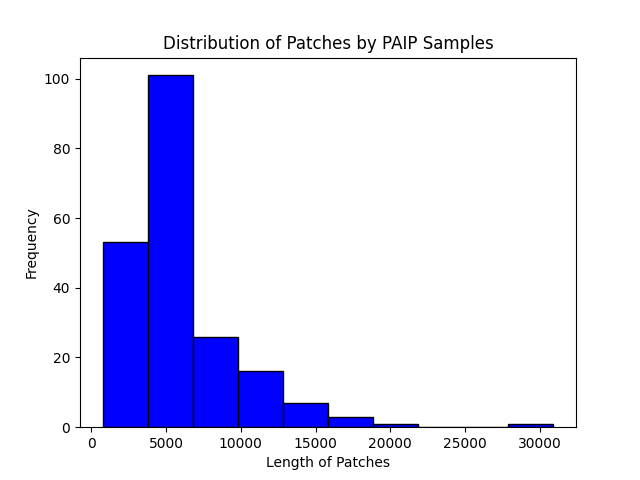
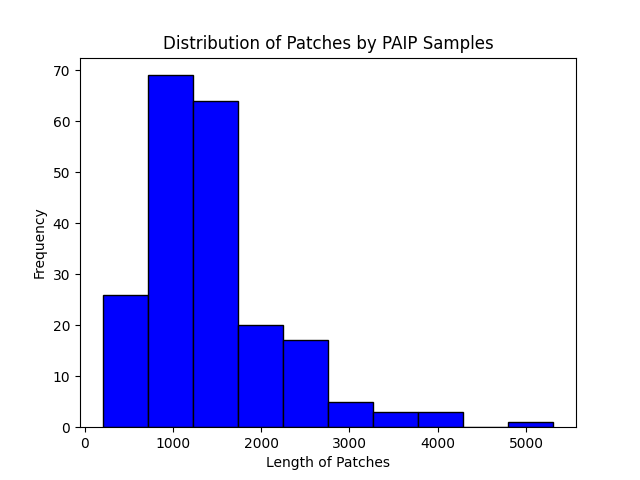
test unetr ddp.

diff --git a/unet_mn.py b/unet_mn.py
@@ -1,0 +1,283 @@
+import os
+import sys
+sys.path.append("./")
+import argparse
+import torch
+import torch.nn as nn
+import torch.optim as optim
+from torch.utils.data import random_split
+import torch.multiprocessing as mp
+import torch.nn.functional as F
+import numpy as np
+import matplotlib.pyplot as plt
+import torch.distributed as dist
+
+from model.unet import Unet
+from dataloader.paip_dataset import PAIPDataset
+
+# Define the Dice Loss
+class DiceLoss(nn.Module):
+    def __init__(self, smooth=1):
+        super(DiceLoss, self).__init__()
+        self.smooth = smooth
+
+    def forward(self, predicted, target):
+        predicted = torch.sigmoid(predicted)
+        intersection = torch.sum(predicted * target)
+        union = torch.sum(predicted) + torch.sum(target) + self.smooth
+        dice_coefficient = (2 * intersection + self.smooth) / union
+        loss = 1.0 - dice_coefficient  # Adjusted to ensure non-negative loss
+        return loss
+    
+class DiceBCELoss(nn.Module):
+    def __init__(self, weight=0.5, size_average=True):
+        super(DiceBCELoss, self).__init__()
+        self.weight = weight
+
+    def forward(self, inputs, targets, smooth=1):
+        
+        #comment out if your model contains a sigmoid or equivalent activation layer
+        inputs = F.sigmoid(inputs)       
+        
+        #flatten label and prediction tensors
+        inputs = inputs.view(-1)
+        targets = targets.view(-1)
+        
+        intersection = (inputs * targets).sum()                            
+        dice_loss = 1 - (2.*intersection + smooth)/(inputs.sum() + targets.sum() + smooth)  
+        BCE = F.binary_cross_entropy(inputs, targets, reduction='mean')
+        Dice_BCE = self.weight*BCE + (1-self.weight)*dice_loss
+        
+        return Dice_BCE
+    
+def train(gpu, args):
+    rank = args.nr * args.gpus + gpu	
+    dist.init_process_group(                                   
+    	backend='nccl',                                         
+   		init_method='env://',                                   
+    	world_size=args.world_size,                              
+    	rank=rank                                               
+    )
+        
+    datapath = args.datapath
+    resolution = args.resolution
+    epoch = args.epoch
+    batch_size = args.batch_size
+    savefile = args.savefile
+    # Create an instance of the U-Net model and other necessary components
+    unet_model = Unet(n_class=1)
+    criterion = DiceBCELoss()
+    optimizer = optim.Adam(unet_model.parameters(), lr=0.001)
+    device = torch.device("cuda" if torch.cuda.is_available() else "mps")
+    torch.cuda.set_device(gpu)
+    unet_model.cuda(gpu)
+    # Wrap the model with DataParallel
+    unet_model = nn.parallel.DistributedDataParallel(unet_model, device_ids=[gpu], find_unused_parameters=True)
+    
+    # Move the model to GPU
+    # unet_model.to(device)
+    
+    # Define the learning rate scheduler
+    milestones =[int(epoch*r) for r in [0.5,0.75,0.875]]
+    scheduler = optim.lr_scheduler.MultiStepLR(optimizer, milestones=milestones, gamma=0.1)
+    
+    # Split the dataset into train, validation, and test sets
+    data_path = datapath
+    dataset = PAIPDataset(data_path, resolution, normalize=False)
+    dataset_size = len(dataset)
+    train_size = int(0.7 * dataset_size)
+    val_size = (dataset_size - train_size) // 2
+    test_size = dataset_size - train_size - val_size
+
+    train_set, val_set, test_set = random_split(dataset, [train_size, val_size, test_size])
+
+    # train_loader = DataLoader(train_set, batch_size=batch_size, shuffle=True)
+    # val_loader = DataLoader(val_set, batch_size=batch_size, shuffle=False)
+    # test_loader = DataLoader(test_set, batch_size=batch_size, shuffle=False)
+    
+    train_sampler = torch.utils.data.distributed.DistributedSampler(
+    	train_set,
+    	num_replicas=args.world_size,
+    	rank=rank
+    )
+    val_sampler = torch.utils.data.distributed.DistributedSampler(
+    	val_set,
+    	num_replicas=args.world_size,
+    	rank=rank
+    )
+    test_sampler = torch.utils.data.distributed.DistributedSampler(
+    	test_set,
+    	num_replicas=args.world_size,
+    	rank=rank
+    )
+    train_loader = torch.utils.data.DataLoader( dataset=train_set,
+                                                batch_size=batch_size,
+                                                shuffle=False,         
+                                                num_workers=0,
+                                                pin_memory=True,
+                                            sampler=train_sampler) 
+    val_loader = torch.utils.data.DataLoader( dataset=val_set,
+                                                batch_size=batch_size,
+                                                shuffle=False,         
+                                                num_workers=0,
+                                                pin_memory=True,
+                                                sampler=val_sampler) 
+    test_loader = torch.utils.data.DataLoader( dataset=test_set,
+                                                batch_size=batch_size,
+                                                shuffle=False,         
+                                                num_workers=0,
+                                                pin_memory=True,
+                                                sampler=test_sampler) 
+    print("Size of the train set {}.".format(len(train_set)))
+
+    # Training loop
+    num_epochs = epoch
+    train_losses = []
+    val_losses = []
+    output_dir = savefile  # Change this to the desired directory
+    os.makedirs(output_dir, exist_ok=True)
+    
+    for epoch in range(num_epochs):
+        unet_model.train()
+        epoch_train_loss = 0.0
+
+        for batch in train_loader:
+            images, timg, masks = batch
+            timg, masks = timg.cuda(non_blocking=True), masks.cuda(non_blocking=True)  # Move data to GPU
+            optimizer.zero_grad()
+            # print(input.device)
+            outputs = unet_model(timg)
+            loss = criterion(outputs, masks)
+            loss.backward()
+            optimizer.step()
+
+            epoch_train_loss += loss.item()
+
+        epoch_train_loss /= len(train_loader)
+        train_losses.append(epoch_train_loss)
+        scheduler.step()
+
+        if gpu==0:
+        # Validation
+            unet_model.eval()
+            epoch_val_loss = 0.0
+
+            with torch.no_grad():
+                for batch in val_loader:
+                    images, timg, masks = batch
+                    timg, masks = timg.cuda(non_blocking=True), masks.cuda(non_blocking=True)  # Move data to GPU
+                    outputs = unet_model(timg)
+                    loss = criterion(outputs, masks)
+                    epoch_val_loss += loss.item()
+
+            epoch_val_loss /= len(val_loader)
+            val_losses.append(epoch_val_loss)
+
+        
+            print(f"Epoch [{epoch + 1}/{num_epochs}] - Train Loss: {epoch_train_loss:.4f}, Validation Loss: {epoch_val_loss:.4f}")
+
+        # Visualize and save predictions on a few validation samples
+        if (epoch + 1) % 3 == 0 and gpu==0:  # Adjust the frequency of visualization
+            unet_model.eval()
+            with torch.no_grad():
+                sample_images, sample_timg, sample_masks = next(iter(val_loader))
+                sample_timg, sample_masks = sample_timg.cuda(non_blocking=True), sample_masks.cuda(non_blocking=True) # Move data to GPU
+                sample_outputs = torch.sigmoid(unet_model(sample_timg))
+
+                for i in range(sample_images.size(0)):
+                    image = sample_images[i].cpu().permute(1, 2, 0).numpy()
+                    mask_true = sample_masks[i].cpu().numpy()
+                    mask_pred = (sample_outputs[i, 0].cpu() > 0.5).numpy()
+                    
+                    # Squeeze the singleton dimension from mask_true
+                    mask_true = np.squeeze(mask_true, axis=0)
+
+                    # Plot and save images
+                    plt.figure(figsize=(12, 4))
+                    plt.subplot(1, 3, 1)
+                    plt.imshow(image)
+                    plt.title("Input Image")
+
+                    plt.subplot(1, 3, 2)
+                    plt.imshow(mask_true, cmap='gray')
+                    plt.title("True Mask")
+
+                    plt.subplot(1, 3, 3)
+                    plt.imshow(mask_pred, cmap='gray')
+                    plt.title("Predicted Mask")
+
+                    plt.savefig(os.path.join(output_dir, f"epoch_{epoch + 1}_sample_{i + 1}.png"))
+                    plt.close()
+
+    if gpu==0:
+        # Save train and validation losses
+        train_losses_path = os.path.join(output_dir, 'train_losses.pth')
+        val_losses_path = os.path.join(output_dir, 'val_losses.pth')
+        torch.save(train_losses, train_losses_path)
+        torch.save(val_losses, val_losses_path)
+
+        # Test the model
+        unet_model.eval()
+        test_loss = 0.0
+
+        with torch.no_grad():
+            for batch in test_loader:
+                images, timg, masks = batch
+                timg, masks = timg.cuda(), masks.cuda()  # Move data to GPU
+                outputs = unet_model(timg)
+                loss = criterion(outputs, masks)
+                test_loss += loss.item()
+
+        test_loss /= len(test_loader)
+        print(f"Test Loss: {test_loss:.4f}")
+        draw_loss(output_dir=output_dir)
+
+def draw_loss(output_dir):
+    os.makedirs(output_dir, exist_ok=True)
+    
+    # Load saved losses
+    train_losses_path = os.path.join(output_dir, 'train_losses.pth')
+    val_losses_path = os.path.join(output_dir, 'val_losses.pth')
+
+    train_losses = torch.load(train_losses_path)
+    val_losses = torch.load(val_losses_path)
+
+    # Plotting the loss curves
+    epochs = range(1, len(train_losses) + 1)
+
+    plt.plot(epochs, train_losses, label='Train Loss')
+    plt.plot(epochs, val_losses, label='Validation Loss')
+    plt.xlabel('Epoch')
+    plt.ylabel('Loss')
+    plt.legend()
+    plt.title('Training and Validation Loss Curves')
+    plt.savefig(os.path.join(output_dir, f"train_val_loss.png"))
+    plt.close()
+    
+def main():
+    parser = argparse.ArgumentParser()
+    parser.add_argument('-n', '--nodes', default=1, type=int, metavar='N')
+    parser.add_argument('-g', '--gpus', default=1, type=int,
+                        help='number of gpus per node')
+    parser.add_argument('-nr', '--nr', default=0, type=int,
+                        help='ranking within the nodes')
+    parser.add_argument('--dataset', type=str,  default="paip", help='name of the dataset.')
+    parser.add_argument('--datapath', default="./dataset/paip/output_images_and_masks", 
+                        help='base path of dataset.')
+    parser.add_argument('--resolution', default=512, type=int,
+                        help='resolution of img.')
+    parser.add_argument('--epoch', default=10, type=int,
+                        help='Epoch of training.')
+    parser.add_argument('--batch_size', default=8, type=int,
+                        help='Batch_size for training')
+    parser.add_argument('--savefile', default="./vitunet_visual",
+                        help='save visualized and loss filename')
+    args = parser.parse_args()
+    
+    args.world_size = args.gpus * args.nodes                
+    os.environ['MASTER_ADDR'] = "127.0.0.1"
+    os.environ['MASTER_PORT'] = "23456"
+      
+    
+if __name__ == '__main__':
+    main()

diff --git a/gvit/patchify.py b/gvit/patchify.py
@@ -84,10 +84,10 @@ def plot_patchied_info(patches_info):
     plt.close()
     return sum(values_sorted)
     
-def transform(img, dsize:tuple=(512, 512)):
+def transform(img, sth:int=3, dsize:tuple=(512, 512)):
     res = cv.resize(img, dsize=dsize, interpolation=cv.INTER_CUBIC)
     grey_img = res[:, :, 0]
-    blur = cv.GaussianBlur(grey_img, (3,3), 0)
+    blur = cv.GaussianBlur(grey_img, (sth,sth), 0)
     edge = cv.Canny(blur, 100, 200)
     return res, edge
 
@@ -129,7 +129,7 @@ def compress_mix_patches(qdt:QuadTree, img: np.array, to_size:tuple=(8,8,3), tar
         
     return seq_patches, to_size, patch_info
 
-def paip_patchify(base, split_value:int, max_depth:int, resolution: int, target_length:int=576, to_size:tuple=(8,8,3)):
+def paip_patchify(base, split_value:int, max_depth:int, resolution: int, sth:int=3, target_length:int=576, to_size:tuple=(8,8,3)):
     img_path = get_png_path(base=base, resolution=resolution)
     output_dir = base
     os.makedirs(output_dir, exist_ok=True)
@@ -137,7 +137,7 @@ def paip_patchify(base, split_value:int, max_depth:int, resolution: int, target_
     statical_info = {}
     for i,p in enumerate(img_path):
         img = cv.imread(p)
-        img, edge = transform(img, dsize=(resolution, resolution))
+        img, edge = transform(img, sth=sth, dsize=(resolution, resolution))
         qdt = QuadTree(domain=edge, max_value=split_value, max_depth = max_depth)
         seq_patches, patch_size, patch_info = compress_mix_patches(qdt, img, to_size, target_length)
         seq_img = np.asarray(seq_patches)
@@ -154,7 +154,7 @@ def paip_patchify(base, split_value:int, max_depth:int, resolution: int, target_
                 
     avg_len = plot_patchied_info(statical_info)
     plot_img_patch_dist(total_patches_info)
-    print("Avg lenth:{}, resolution:{}, to_size:{}, sp_val:".format(avg_len,resolution,to_size[0],split_value))
+    print("Avg lenth:{}, resolution:{}, to_size:{}, sp_val:{}".format(avg_len,resolution,to_size[0],split_value))
         
 def imagenet_patcher(datapath):
     train_path = os.path.join(datapath, "train")
@@ -170,6 +170,7 @@ def patchify(args):
     elif args.dataset == "paip":
         paip_patchify(base=datapath, 
                       resolution=args.resolution,
+                      sth=args.sth,
                       split_value=args.split_value,
                       target_length=args.target_length,
                       max_depth=args.max_depth,
@@ -187,6 +188,7 @@ if __name__ == '__main__':
     parser.add_argument('--max_depth', type=int, default=10, help='path of the dataset.')
     parser.add_argument('--to_size', type=int, default=8, help='path of the dataset.')
     parser.add_argument('--target_length', type=int, default=576, help='path of the dataset.')
+    parser.add_argument('--sth', type=int, default=3, help='smooth factor for gaussain smoothing.')
     parser.add_argument('--split_value', type=int, default=80, help='criteron value to subdivision.')
     parser.add_argument('--datapath',  type=str, default="/Volumes/data/dataset/paip/output_images_and_masks", 
                         help='base path of dataset.')
